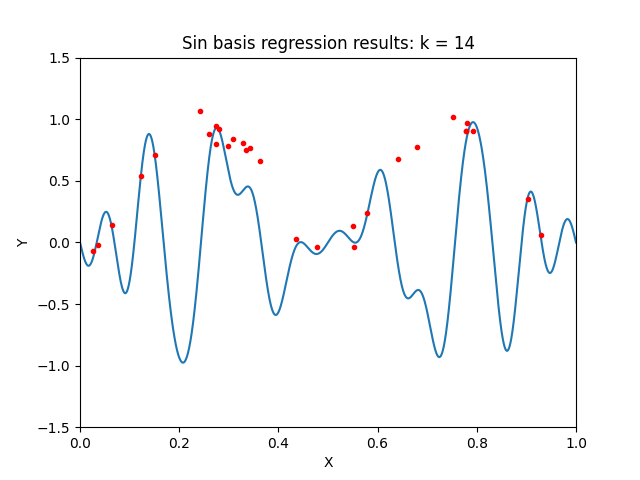
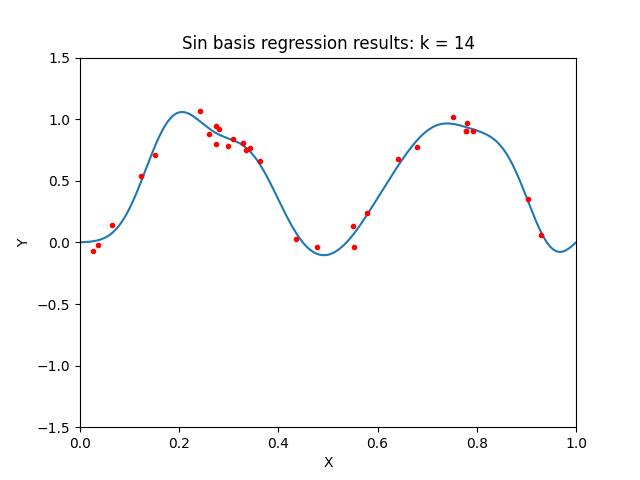
Add updated sin basis results

diff --git a/src/overfitting.py b/src/overfitting.py
@@ -42,7 +42,7 @@ def get_sin_basis(x, k):
     '''
     dims = np.arange(1, k + 1)
     grid = np.meshgrid(x, dims) 
-    return(np.sin(2*math.pi*grid[0]*grid[1]).T)
+    return(np.sin(math.pi*grid[0]*grid[1]).T)
 
 
 def run_sin_regression(k, x, y):
